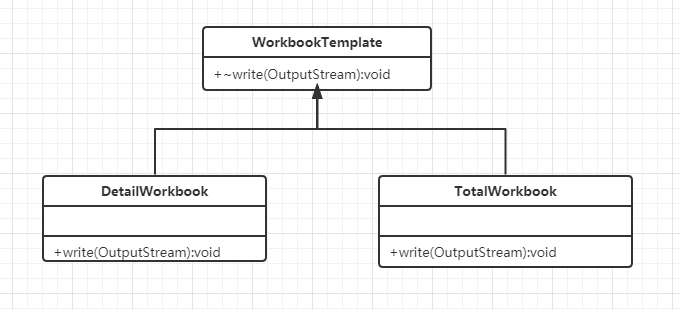
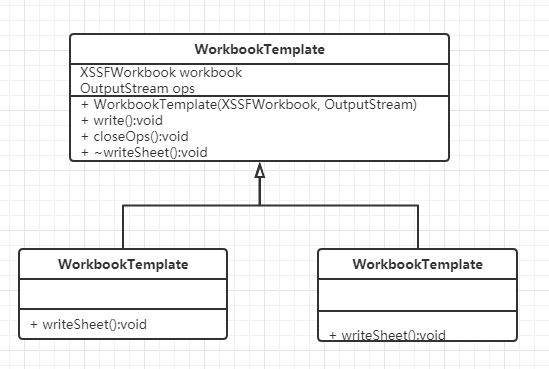
template pattern update

diff --git a/design-pattern-template/src/main/java/com/oukyou/pattern/template/WorkbookTemplate.java b/design-pattern-template/src/main/java/com/oukyou/pattern/template/WorkbookTemplate.java
@@ -20,14 +20,20 @@ public abstract class WorkbookTemplate {
 	 * 工作薄
 	 */
 	XSSFWorkbook workbook;
+	/**
+	 * 出力流
+	 */
+	OutputStream ops;
 
 	/**
 	 * 构造函数
 	 * 
 	 * @param workbook 工作薄
+	 * @param ops 出力流
 	 */
-	public WorkbookTemplate(XSSFWorkbook workbook) {
+	public WorkbookTemplate(XSSFWorkbook workbook, OutputStream ops) {
 		this.workbook = workbook;
+		this.ops = ops;
 	}
 
 	/**
@@ -36,5 +42,27 @@ public abstract class WorkbookTemplate {
 	 * @param ops 出力流
 	 * @throws IOException IO例外
 	 */
-	public abstract void write(OutputStream ops) throws IOException;
+	public void write() throws IOException {
+		// sheet内容出力
+		writeSheet();
+		closeOps();
+	}
+
+	/**
+	 * 关闭出力流
+	 * 
+	 * @throws IOException IO例外
+	 */
+	private void closeOps() throws IOException {
+		if (ops != null) {
+			ops.close();
+		}
+	}
+
+	/**
+	 * 表格内容出力
+	 * 
+	 * @throws IOException IO例外
+	 */
+	abstract void writeSheet() throws IOException;
 }

diff --git a/design-pattern-template/src/main/java/com/oukyou/pattern/template/TemplatePatternTest.java b/design-pattern-template/src/main/java/com/oukyou/pattern/template/TemplatePatternTest.java
@@ -29,16 +29,16 @@ public final class TemplatePatternTest {
 		InputStream detailStream = new FileInputStream("detail.xlsx");
 		XSSFWorkbook detailWb = new XSSFWorkbook(detailStream);
 
-		DetailWorkbook detail = new DetailWorkbook(detailWb);
-		detail.write(new FileOutputStream(new File("detail-output.xlsx")));
+		DetailWorkbook detail = new DetailWorkbook(detailWb, new FileOutputStream(new File("detail-output.xlsx")));
+		detail.write();
 		detailStream.close();
 
 		// 读取详细excel表的内容
 		InputStream totlaStream = new FileInputStream("total.xlsx");
 		XSSFWorkbook totalWb = new XSSFWorkbook(totlaStream);
 
-		TotalWorkbook total = new TotalWorkbook(totalWb);
-		total.write(new FileOutputStream(new File("total-output.xlsx")));
+		TotalWorkbook total = new TotalWorkbook(totalWb, new FileOutputStream(new File("total-output.xlsx")));
+		total.write();
 		totlaStream.close();
 	}
 }

diff --git a/design-pattern-template/src/main/java/com/oukyou/pattern/template/DetailWorkbook.java b/design-pattern-template/src/main/java/com/oukyou/pattern/template/DetailWorkbook.java
@@ -20,20 +20,20 @@ import org.apache.poi.xssf.usermodel.XSSFWorkbook;
 public final class DetailWorkbook extends WorkbookTemplate {
 
 	/**
-	 * 构造方法
+	 * 构造函数
 	 * 
 	 * @param workbook 工作薄
+	 * @param ops 出力流
 	 */
-	public DetailWorkbook(XSSFWorkbook workbook) {
-		super(workbook);
+	public DetailWorkbook(XSSFWorkbook workbook, OutputStream ops) {
+		super(workbook, ops);
 	}
 
 	/**
-	 * @throws IOException
-	 * @see WorkbookTemplate#write()
+	 * @see WorkbookTemplate#writeSheet()
 	 */
 	@Override
-	public void write(OutputStream ops) throws IOException {
+	void writeSheet() throws IOException {
 		// 获取第一个sheet
 		XSSFSheet sheet = workbook.getSheetAt(0);
 		XSSFRow row = sheet.getRow(0);
@@ -43,5 +43,4 @@ public final class DetailWorkbook extends WorkbookTemplate {
 		workbook.write(ops);
 		System.out.println("详细表出力完成。");
 	}
-
 }

diff --git a/design-pattern-template/src/main/java/com/oukyou/pattern/template/TotalWorkbook.java b/design-pattern-template/src/main/java/com/oukyou/pattern/template/TotalWorkbook.java
@@ -20,19 +20,20 @@ import org.apache.poi.xssf.usermodel.XSSFWorkbook;
 public final class TotalWorkbook extends WorkbookTemplate {
 
 	/**
-	 * 构造方法
+	 * 构造函数
 	 * 
 	 * @param workbook 工作薄
+	 * @param ops 出力流
 	 */
-	public TotalWorkbook(XSSFWorkbook workbook) {
-		super(workbook);
+	public TotalWorkbook(XSSFWorkbook workbook, OutputStream ops) {
+		super(workbook, ops);
 	}
 
 	/**
-	 * @see WorkbookTemplate#write()
+	 * @see WorkbookTemplate#writeSheet()
 	 */
 	@Override
-	public void write(OutputStream ops) throws IOException {
+	void writeSheet() throws IOException {
 		// 获取第一个sheet
 		XSSFSheet sheet = workbook.getSheetAt(0);
 		XSSFRow row = sheet.getRow(0);

diff --git a/design-pattern-template/README.md b/design-pattern-template/README.md
@@ -7,7 +7,7 @@
 ### 2.代码解析
    WorkbookTemplate类定义了出力的抽象方法，明细EXCEL文件的出力内容是在DetailWorkbook里面实现，统计EXCEL文件的处理内容是在TotlaWorkbook里面实现。
  
-#### 2.1 父类抽象方法
+#### 2.1 父类共通方法和抽象方法
 ```
 	/**
 	 * 出力工作薄
@@ -15,18 +15,39 @@
 	 * @param ops 出力流
 	 * @throws IOException IO例外
 	 */
-	public abstract void write(OutputStream ops) throws IOException;
+	public void write() throws IOException {
+		// sheet内容出力
+		writeSheet();
+		closeOps();
+	}
+
+	/**
+	 * 关闭出力流
+	 * 
+	 * @throws IOException IO例外
+	 */
+	private void closeOps() throws IOException {
+		if (ops != null) {
+			ops.close();
+		}
+	}
+
+	/**
+	 * 表格内容出力
+	 * 
+	 * @throws IOException IO例外
+	 */
+	abstract void writeSheet() throws IOException;
 ```
 
 #### 2.2 子类实现
 ###### 2.2.1 DetailWorkbook
 ```
 	/**
-	 * @throws IOException
-	 * @see WorkbookTemplate#write()
+	 * @see WorkbookTemplate#writeSheet()
 	 */
 	@Override
-	public void write(OutputStream ops) throws IOException {
+	void writeSheet() throws IOException {
 		// 获取第一个sheet
 		XSSFSheet sheet = workbook.getSheetAt(0);
 		XSSFRow row = sheet.getRow(0);
@@ -40,10 +61,10 @@
 ###### 2.2.2 TotalWorkbook
 ```
 	/**
-	 * @see WorkbookTemplate#write()
+	 * @see WorkbookTemplate#writeSheet()
 	 */
 	@Override
-	public void write(OutputStream ops) throws IOException {
+	void writeSheet() throws IOException {
 		// 获取第一个sheet
 		XSSFSheet sheet = workbook.getSheetAt(0);
 		XSSFRow row = sheet.getRow(0);
